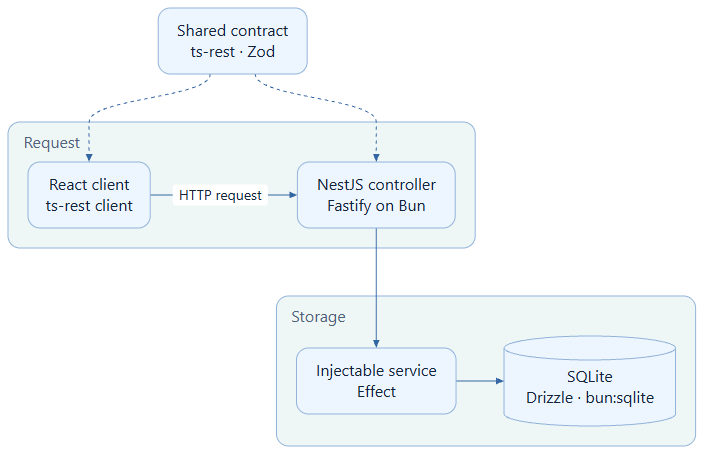
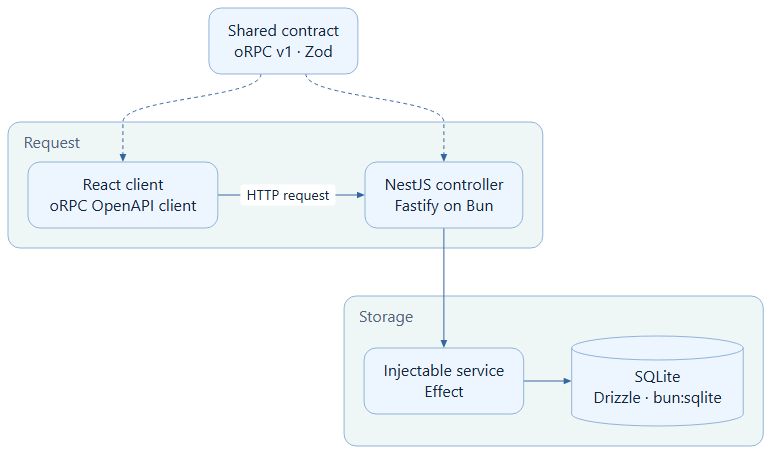
refactor(api): migrate the notes api to oRPC v1
Swap ts-rest for an oRPC contract, update the client and server call
sites, and regenerate the architecture diagram.

diff --git a/server/test/notes.test.ts b/server/test/notes.test.ts
@@ -91,4 +91,61 @@ describe("notes api", () => {
       expect(await res.json()).toEqual({ error: "Not found" });
     }
   });
+
+  test("rejects missing and non-string text", async () => {
+    for (const body of [{}, { text: null }, { text: 42 }, { text: [] }]) {
+      const res = await request("/api/notes", postJson(body));
+      expect(res.status).toBe(400);
+      expect(await res.json()).toEqual({ error: "Note text must be 1-200 characters" });
+    }
+  });
+
+  test("returns 503 for storage failures", async () => {
+    const brokenDb = createDb(":memory:");
+    migrateDb(brokenDb);
+    const brokenApp = await createApp(brokenDb, { serveClient: false });
+    brokenDb.$client.close();
+    try {
+      const list = await brokenApp.inject({ method: "GET", url: "/api/notes" });
+      const create = await brokenApp.inject({
+        method: "POST",
+        url: "/api/notes",
+        headers: { "content-type": "application/json" },
+        payload: JSON.stringify({ text: "hello" }),
+      });
+      for (const response of [list, create]) {
+        expect(response.statusCode).toBe(503);
+        expect(response.json()).toEqual({ error: "Notes are unavailable" });
+      }
+    } finally {
+      await brokenApp.close();
+    }
+  });
+
+  test("browser API uses actual Nest routes and preserves errors", async () => {
+    await app.listen(0, "127.0.0.1");
+    const address = app.getHttpServer().address();
+    if (!address || typeof address === "string") throw new Error("Missing server address");
+    const original = Object.getOwnPropertyDescriptor(globalThis, "location");
+    Object.defineProperty(globalThis, "location", {
+      configurable: true,
+      value: { origin: `http://127.0.0.1:${address.port}` },
+    });
+    try {
+      const { createNote, fetchNotes } = await import("../../client/src/api");
+      const note = await createNote("  typed client  ");
+      expect(note.text).toBe("typed client");
+      expect((await fetchNotes()).some((item) => item.id === note.id)).toBe(true);
+      await createNote(" ").then(
+        () => {
+          throw new Error("Expected invalid note to be rejected");
+        },
+        (error: unknown) =>
+          expect(error).toHaveProperty("message", "Note text must be 1-200 characters"),
+      );
+    } finally {
+      if (original) Object.defineProperty(globalThis, "location", original);
+      else Reflect.deleteProperty(globalThis, "location");
+    }
+  });
 });

diff --git a/server/src/notes/notes.controller.ts b/server/src/notes/notes.controller.ts
@@ -1,5 +1,5 @@
 import { Controller, Inject } from "@nestjs/common";
-import { TsRestHandler, tsRestHandler } from "@ts-rest/nest";
+import { Implement, implement, ORPCError } from "@orpc/nest";
 import { Effect } from "effect";
 import { notesContract } from "@shared/notes.contract";
 import { NotesService } from "@server/notes/notes.service";
@@ -8,28 +8,33 @@ import { NotesService } from "@server/notes/notes.service";
 export class NotesController {
   constructor(@Inject(NotesService) private readonly notesService: NotesService) {}
 
-  @TsRestHandler(notesContract.list)
+  @Implement(notesContract.list)
   list() {
-    return tsRestHandler(notesContract.list, async () => {
-      const result = await Effect.runPromise(
+    return implement(notesContract.list).handler(async () => {
+      const notes = await Effect.runPromise(
         Effect.match(this.notesService.list(), {
-          onFailure: () => ({ status: 503 as const, body: { error: "Notes are unavailable" } }),
-          onSuccess: (notes) => ({ status: 200 as const, body: { notes } }),
+          onFailure: () => null,
+          onSuccess: (value) => value,
         }),
       );
-      return result;
+      if (notes === null)
+        throw new ORPCError("SERVICE_UNAVAILABLE", { message: "Notes are unavailable" });
+      return { notes };
     });
   }
 
-  @TsRestHandler(notesContract.create)
+  @Implement(notesContract.create)
   create() {
-    return tsRestHandler(notesContract.create, async ({ body }) => {
-      return Effect.runPromise(
-        Effect.match(this.notesService.create(body.text), {
-          onFailure: () => ({ status: 503 as const, body: { error: "Notes are unavailable" } }),
-          onSuccess: (note) => ({ status: 201 as const, body: { note } }),
+    return implement(notesContract.create).handler(async ({ input }) => {
+      const note = await Effect.runPromise(
+        Effect.match(this.notesService.create(input.text), {
+          onFailure: () => null,
+          onSuccess: (value) => value,
         }),
       );
+      if (note === null)
+        throw new ORPCError("SERVICE_UNAVAILABLE", { message: "Notes are unavailable" });
+      return { note };
     });
   }
 }

diff --git a/client/src/api.ts b/client/src/api.ts
@@ -1,22 +1,42 @@
-import { initClient } from "@ts-rest/core";
+import { createORPCClient, ORPCError } from "@orpc/client";
+import type { ContractRouterClient } from "@orpc/contract";
+import type { JsonifiedClient } from "@orpc/openapi-client";
+import { OpenAPILink } from "@orpc/openapi-client/fetch";
 import { notesContract } from "@shared/notes.contract";
-import type { z } from "zod";
 
-const api = initClient(notesContract, { baseUrl: "", baseHeaders: {} });
-export type Note = z.infer<(typeof notesContract.list.responses)[200]>["notes"][number];
+const link = new OpenAPILink(notesContract, {
+  url: () => globalThis.location.origin,
+  customErrorResponseBodyDecoder(body, response) {
+    if (
+      typeof body === "object" &&
+      body !== null &&
+      "error" in body &&
+      typeof body.error === "string"
+    ) {
+      return new ORPCError("NOTES_HTTP_ERROR", { status: response.status, message: body.error });
+    }
+    return null;
+  },
+});
+const api: JsonifiedClient<ContractRouterClient<typeof notesContract>> = createORPCClient(link);
+export type Note = Awaited<ReturnType<typeof api.list>>["notes"][number];
 
 export async function fetchNotes(): Promise<Note[]> {
-  const res = await api.list();
-  if (res.status !== 200) throw new Error("Could not load notes");
-  return res.body.notes;
+  try {
+    return (await api.list()).notes;
+  } catch {
+    throw new Error("Could not load notes");
+  }
 }
 
 export async function createNote(text: string): Promise<Note> {
-  const res = await api.create({ body: { text } });
-  if (res.status === 201) return res.body.note;
-  throw new Error(
-    typeof res.body === "object" && res.body && "error" in res.body
-      ? String(res.body.error)
-      : "Could not save note",
-  );
+  try {
+    return (await api.create({ text })).note;
+  } catch (error) {
+    throw new Error(
+      error instanceof ORPCError && error.code === "NOTES_HTTP_ERROR"
+        ? error.message
+        : "Could not save note",
+    );
+  }
 }

diff --git a/server/src/app.ts b/server/src/app.ts
@@ -9,7 +9,7 @@ import {
 } from "@nestjs/common";
 import { NestFactory } from "@nestjs/core";
 import { FastifyAdapter, type NestFastifyApplication } from "@nestjs/platform-fastify";
-import { RequestValidationError } from "@ts-rest/nest";
+import { ORPCModule } from "@orpc/nest";
 import { join, relative, resolve, sep } from "node:path";
 import type { FastifyReply, FastifyRequest } from "fastify";
 import type { AppDatabase } from "@server/db";
@@ -22,7 +22,19 @@ export async function createApp(db: AppDatabase, options: { serveClient?: boolea
   @Module({ providers: [{ provide: "DATABASE", useValue: db }], exports: ["DATABASE"] })
   class DatabaseModule {}
 
-  @Module({ imports: [DatabaseModule, NotesModule] })
+  @Module({
+    imports: [
+      ORPCModule.forRoot({
+        customErrorResponseBodyEncoder(error) {
+          if (error.status === 400) return { error: "Note text must be 1-200 characters" };
+          if (error.status === 503) return { error: "Notes are unavailable" };
+          return { error: "Internal server error" };
+        },
+      }),
+      DatabaseModule,
+      NotesModule,
+    ],
+  })
   class AppModule {}
 
   @Catch()
@@ -30,9 +42,6 @@ export async function createApp(db: AppDatabase, options: { serveClient?: boolea
     async catch(error: unknown, host: ArgumentsHost) {
       const request = host.switchToHttp().getRequest<FastifyRequest>();
       const reply = host.switchToHttp().getResponse<FastifyReply>();
-      if (error instanceof RequestValidationError) {
-        return reply.status(400).send({ error: "Note text must be 1-200 characters" });
-      }
       const status = error instanceof HttpException ? error.getStatus() : 500;
       if (status === 400) return reply.status(400).send({ error: "Invalid JSON body" });
       if (status === 404) {

diff --git a/shared/notes.contract.ts b/shared/notes.contract.ts
@@ -1,20 +1,12 @@
-import { initContract } from "@ts-rest/core";
+import { oc } from "@orpc/contract";
 import { z } from "zod";
 
-const c = initContract();
 const note = z.object({ id: z.number(), text: z.string(), createdAt: z.string() });
-const error = z.object({ error: z.string() });
 
-export const notesContract = c.router({
-  list: {
-    method: "GET",
-    path: "/api/notes",
-    responses: { 200: z.object({ notes: z.array(note) }), 503: error },
-  },
-  create: {
-    method: "POST",
-    path: "/api/notes",
-    body: z.object({ text: z.string().trim().min(1).max(200) }),
-    responses: { 201: z.object({ note }), 400: error, 503: error },
-  },
-});
+export const notesContract = {
+  list: oc.route({ method: "GET", path: "/api/notes" }).output(z.object({ notes: z.array(note) })),
+  create: oc
+    .route({ method: "POST", path: "/api/notes", successStatus: 201 })
+    .input(z.object({ text: z.string().trim().min(1).max(200) }))
+    .output(z.object({ note })),
+};

diff --git a/README.md b/README.md
@@ -6,10 +6,10 @@ A copyable Bun workspace with a React 19 client and a NestJS/Fastify API on Bun.
 
 - **Client:** React 19, Vite+, TanStack Router and Query.
 - **API:** NestJS controllers, modules, and services using Fastify on Bun.
-- **Shared types:** a ts-rest contract in `shared/notes.contract.ts`. Zod validates request bodies; the controller and browser client use the same route and response types.
+- **Shared types:** an oRPC v1 contract in `shared/notes.contract.ts`. Zod validates request bodies; the controller and browser client use the same route and response types.
 - **Data:** Effect handles storage errors; Drizzle accesses SQLite through `bun:sqlite`.
 
-![Notes request flow: React client and NestJS controller share a ts-rest contract; the controller calls a service backed by Drizzle and SQLite.](architecture.png)
+![Notes request flow: React client and NestJS controller share an oRPC v1 contract; the controller calls a service backed by Drizzle and SQLite.](architecture.png)
 
 ## Prerequisites
 
@@ -68,7 +68,7 @@ Server tests use `bun:test` on purpose: they exercise the NestJS/Fastify app aga
 
 ## API contract
 
-`shared/notes.contract.ts` defines the routes, request validation, and response types for `GET /api/notes` and `POST /api/notes`. `server/src/notes/notes.controller.ts` implements them with `@TsRestHandler` and calls the injectable `NotesService`. `client/src/api.ts` calls the same contract through the ts-rest fetch client. No generated API client is needed.
+`shared/notes.contract.ts` defines the routes, request validation, and response types for `GET /api/notes` and `POST /api/notes`. `server/src/notes/notes.controller.ts` implements them with the Nest controller decorator `@Implement` and calls the injectable `NotesService`. `client/src/api.ts` uses a contract-driven oRPC OpenAPI client. No generated API client is needed.
 
 `@client/...` resolves to `client/src/`, `@server/...` to `server/src/`, and `@shared/...` to `shared/`. The client imports the shared contract, not the server application.
 
@@ -143,9 +143,9 @@ To rename rather than remove, replace `Notes`, `notes`, and `/api/notes` consist
 
 ## Layout
 
-- `client/` — React 19, Vite+, TanStack Router and Query, ts-rest client
-- `server/` — NestJS/Fastify on Bun, ts-rest, Effect, Zod, Drizzle, SQLite
-- `shared/` — the ts-rest API contract used by client and server
+- `client/` — React 19, Vite+, TanStack Router and Query, oRPC OpenAPI client
+- `server/` — NestJS/Fastify on Bun, oRPC v1, Effect, Zod, Drizzle, SQLite
+- `shared/` — the oRPC v1 API contract used by client and server
 - `server/data/` — persistent SQLite files (ignored)
 
 The diagram source is [`architecture.mmd`](architecture.mmd); the README uses [`architecture.png`](architecture.png).
@@ -159,7 +159,7 @@ bun install --frozen-lockfile
 bun run verify
 ```
 
-Expected: `bun run check` (format, lint, typecheck) and `bun run build` exit 0; the Notes integration tests report `5 pass`, `0 fail`.
+Expected: `bun run check` (format, lint, typecheck) and `bun run build` exit 0; the Notes integration tests report `8 pass`, `0 fail`.
 
 Production check:
 
